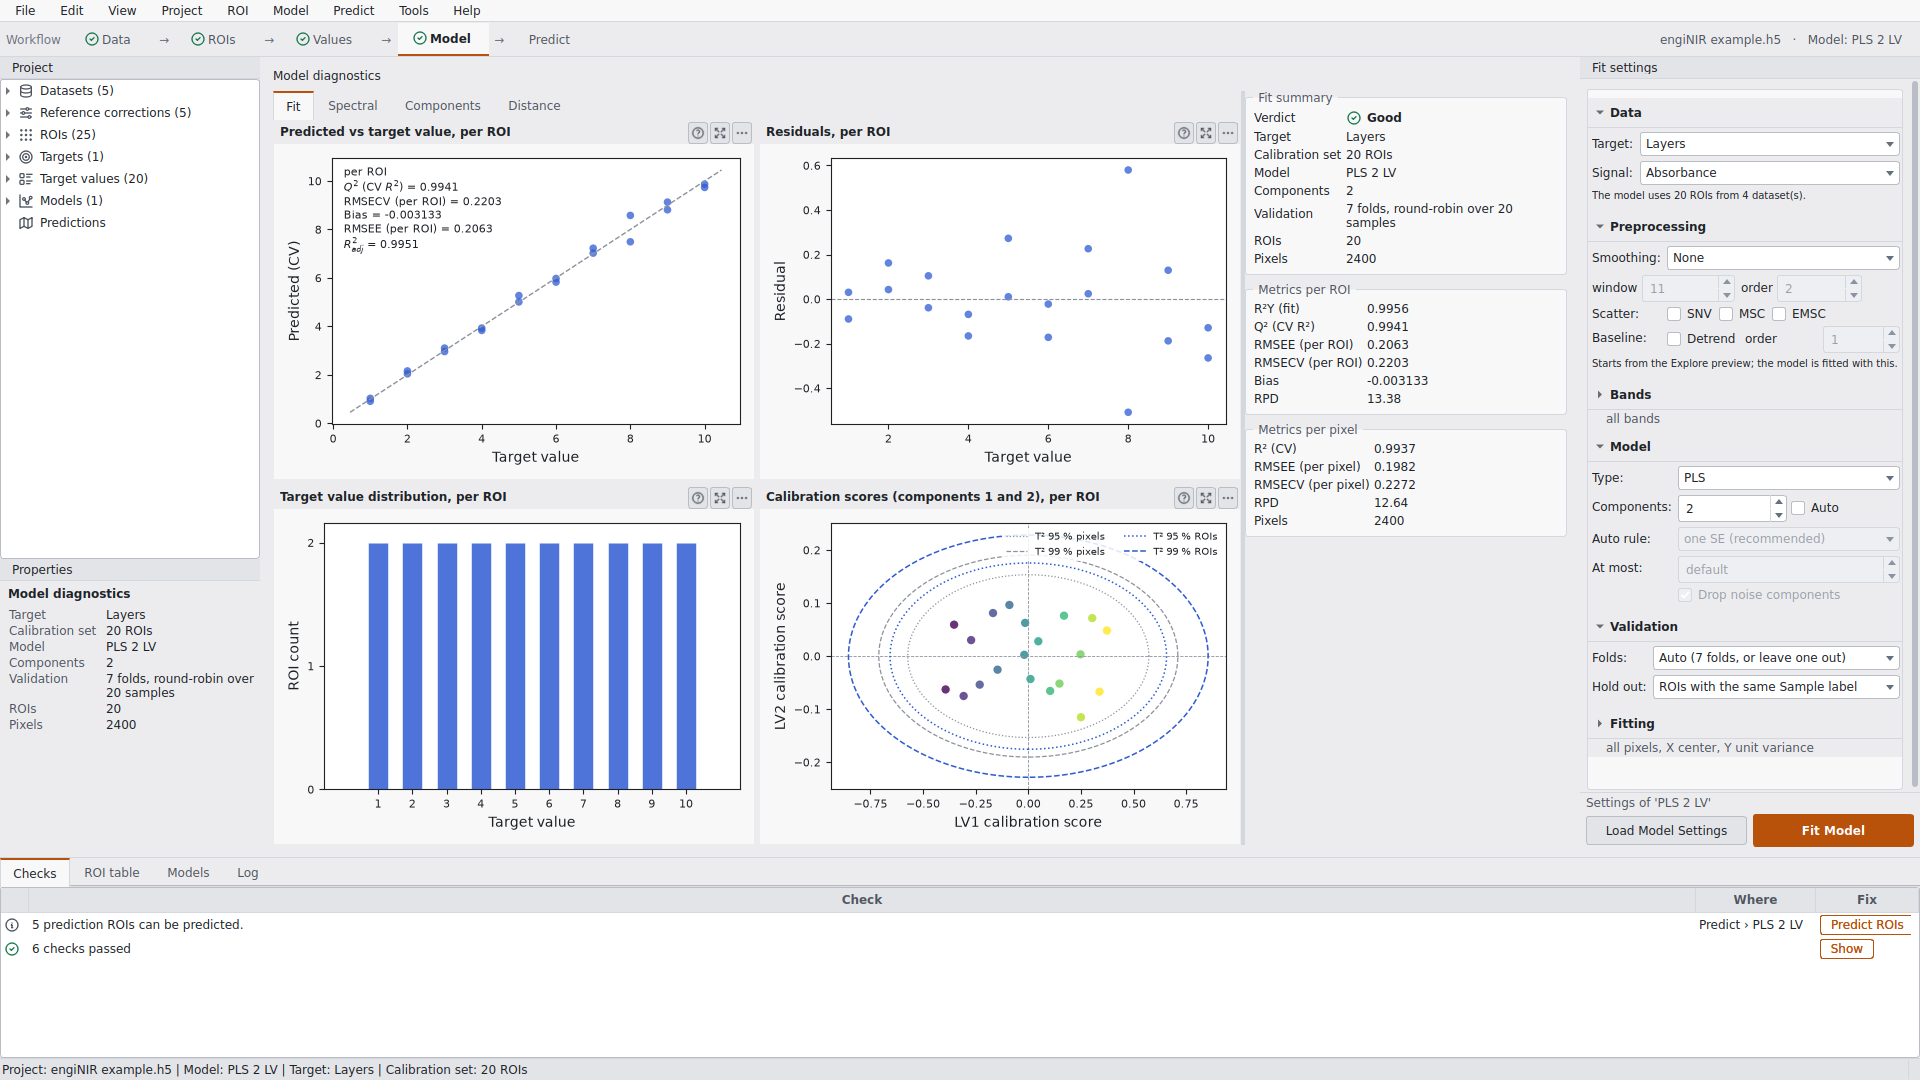
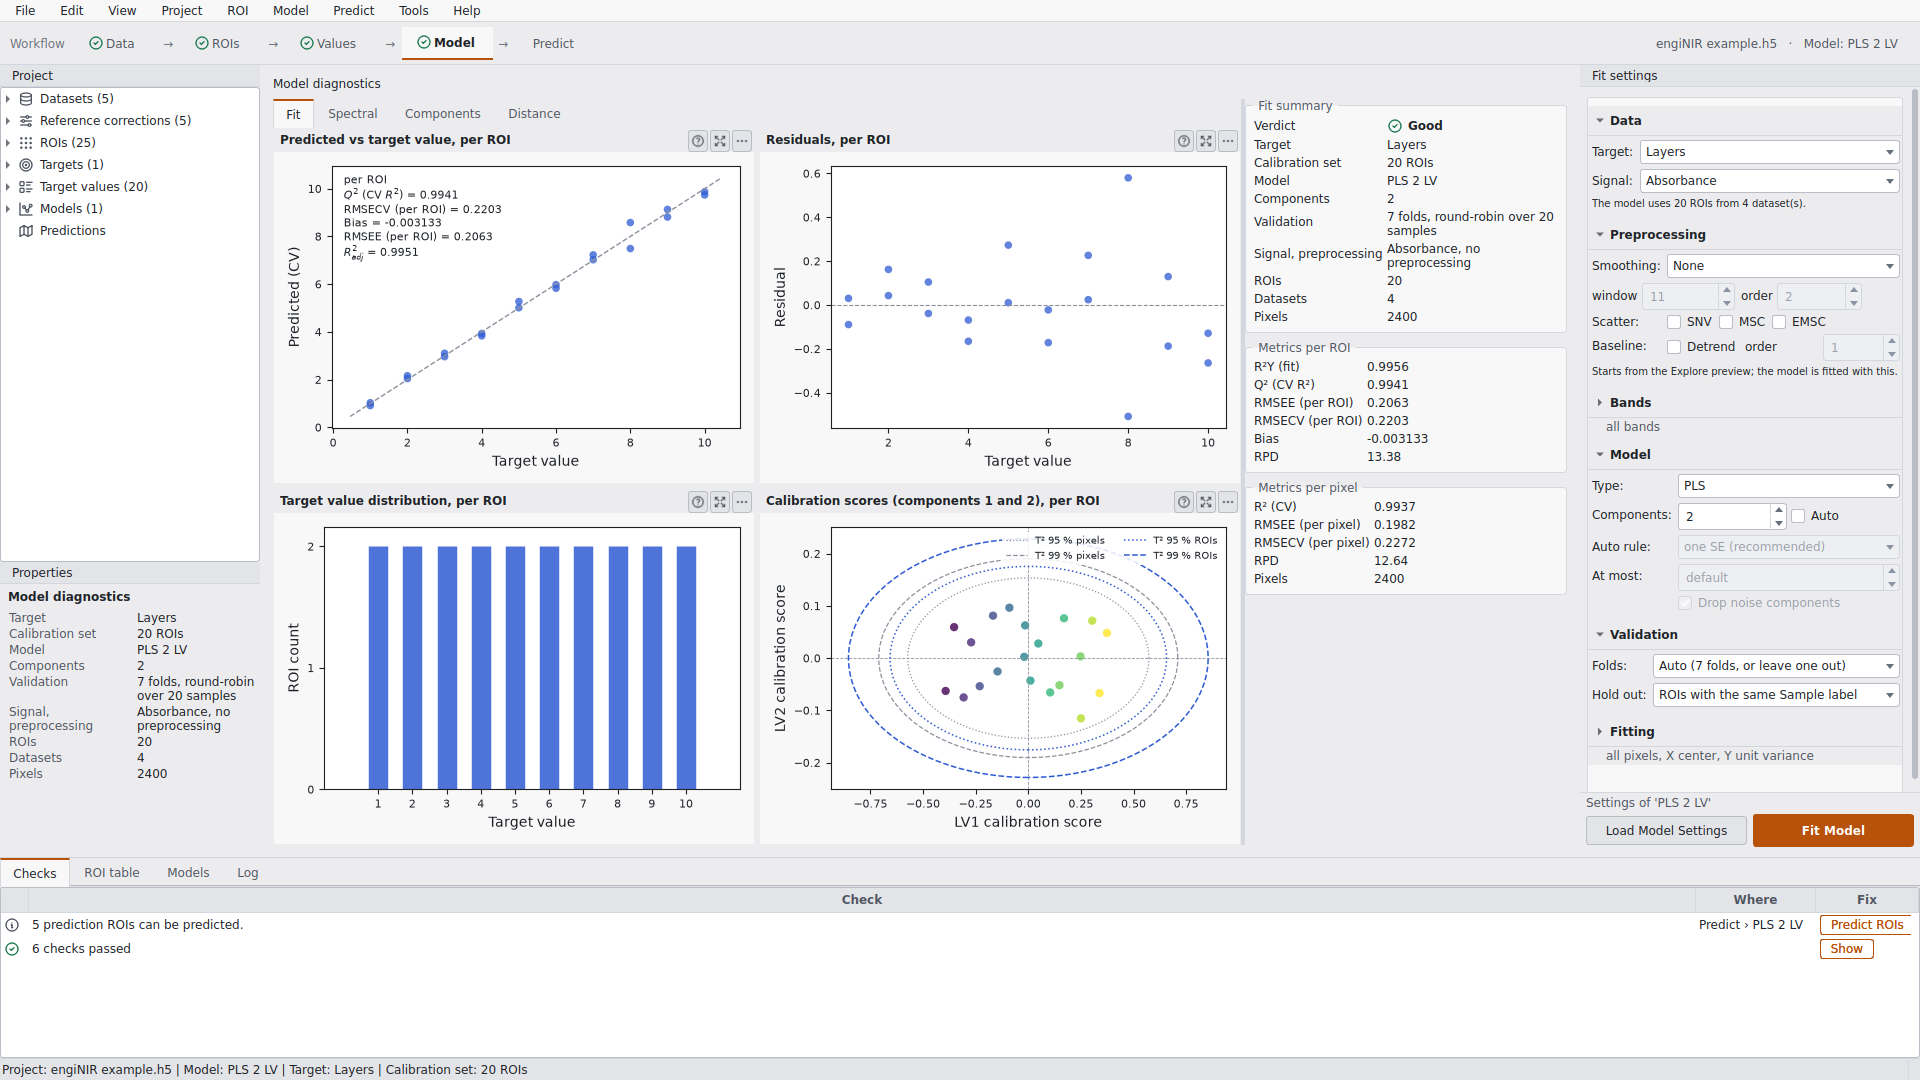
README follows the 1.6 viewer with screenshots of the example project and two guiding principles; Regulatory context page in the docs
- README: workflow strip steps, Try it with the example project, new
  screenshots (Model, Data, Spectral, Predict), installation first for
  viewer users, Development section.
- Guarantees become two guiding principles; the full guarantees, the
  ICH/USP/FDA evidence table and what is not covered move to
  docs/user_guide/regulatory.rst.
- The user guide's Model screenshot shows the new fit summary rows.

diff --git a/README.md b/README.md
@@ -4,6 +4,7 @@
 
 # engiNIR
 
+[![CI](https://github.com/TUstudents/engiNIR/actions/workflows/ci.yml/badge.svg)](https://github.com/TUstudents/engiNIR/actions/workflows/ci.yml)
 [![DOI](https://zenodo.org/badge/DOI/10.5281/zenodo.23235907.svg)](https://doi.org/10.5281/zenodo.23235907)
 [![Documentation](https://app.readthedocs.org/projects/enginir/badge/?version=stable)](https://enginir.readthedocs.io/en/stable/)
 [![PyPI](https://img.shields.io/pypi/v/enginir)](https://pypi.org/project/enginir/)
@@ -12,53 +13,71 @@
 engiNIR turns near-infrared spectra and hyperspectral images into validated
 calibration models and property predictions, with every step recorded. It is
 built for pharmaceutical process analytics: tablets on a tray, scanned by a
-push-broom camera, measured against target values.
+push-broom camera, measured against target values. It comes as a Python
+library and as a desktop viewer that guides you through the whole workflow.
+
+<p align="center">
+  <img src="https://raw.githubusercontent.com/TUstudents/engiNIR/main/docs/_static/screens/readme_model.png" alt="The engiNIR viewer on the Model step: predicted against target values, residuals, scores, the fit summary with its verdict, and the Fit settings">
+</p>
+
+## Try it
+
+Install the viewer (see [Installation](#installation)), start it and choose
+**Open Example Project**. The example is a synthetic tablet study: four
+calibration scans with five tablets each, one scan to predict, and a fitted
+PLS model, so every step of the workflow has something to show.
 
 ## Workflow
 
-1. **Import** EVK EIFF, ENVI, HDF5, CSV/Excel, SPC, SPA and JCAMP-DX data.
-   Several scans form one project; references can come from separate files,
-   frames of the same scan or another scan.
-2. **Correct** raw counts to reflectance or absorbance with dark and white
-   references or detector levels.
-3. **Draw regions** (ROIs) on the samples, one by one or as a grid over a
-   tray, and assign target values.
-4. **Preprocess** with recipes: Savitzky-Golay smoothing and derivatives, SNV,
-   MSC, EMSC, detrending, AsLS baseline correction and band selection.
-5. **Model** with PLS or PCR, cross-validated by ROI so that no sample's
-   pixels are split across folds. The number of components can be chosen
-   automatically (one-SE, Q² and F-test rules with a noise guard).
-6. **Review** figures of merit, scores and loadings, VIP and selectivity
-   ratio, Hotelling's T² and the distance to the model (DModX).
-7. **Predict** new scans: a prediction map with the distance to the model and
-   a 95 % prediction interval per pixel, and per-tablet results for marked
-   prediction ROIs.
+The viewer's workflow strip, **Data → ROIs → Values → Model → Predict**,
+follows the steps of a calibration. A tick marks a finished step, and the
+**Checks** tab says what a step still needs, with a button that fixes it.
 
-## Guarantees
+1. **Data.** Import EVK EIFF, ENVI, HDF5, CSV/Excel, SPC, SPA and JCAMP-DX
+   data. Several scans form one project. Raw counts are corrected to
+   reflectance or absorbance with dark and white references (from separate
+   files, frames of the same scan or another scan) or detector levels.
+2. **ROIs.** Draw regions of interest on the samples, one by one or as a grid
+   over a tray.
+3. **Values.** Define targets with units and enter the reference value of each
+   ROI.
+4. **Model.** Preprocess with Savitzky-Golay smoothing and derivatives, SNV,
+   MSC, EMSC, detrending, AsLS baseline correction and band selection, and fit
+   PLS or PCR, cross-validated by ROI so that no sample's pixels are split
+   across folds. The number of components can be chosen automatically
+   (one-SE, Q² and F-test rules with a noise guard). Review the figures of
+   merit, scores and loadings, VIP and selectivity ratio, Hotelling's T² and
+   the distance to the model (DModX); a verdict sums up whether the model is
+   fit for use.
+5. **Predict.** Apply the model to new scans: a prediction map with the
+   distance to the model and a 95 % prediction interval per pixel, and
+   per-tablet results for marked prediction ROIs.
 
-- Calibration and prediction run through the same reference correction and preprocessing
-  pipeline; fitted MSC/EMSC states are stored with the model.
-- Pixels are the data points of the fit, ROIs the reporting unit: cross-validation, reported
-  metrics and stateful preprocessing respect the ROI.
-- Prediction is refused when a scan does not match the model's instrument
-  format, number of bands, reference correction or signal unit.
-- Every pixel prediction says whether it is inside the model (DModXPS and
-  T²PS against their 0.99 limits) and how precise it is (leverage-based
-  interval); outside the model it gets no interval.
-- One project file links data, references, ROIs, recipes and models by stable
-  ids; stored objects are never silently overwritten. Predictions are kept in
-  memory and logged with their provenance.
+| Data | Model: spectral diagnostics | Predict |
+|:---:|:---:|:---:|
+| <img src="https://raw.githubusercontent.com/TUstudents/engiNIR/main/docs/_static/screens/readme_data.png" alt="The Data step: the spatial image of a scan with its ROIs, the sensor frame, the spatial and spectral profiles" width="300"> | <img src="https://raw.githubusercontent.com/TUstudents/engiNIR/main/docs/_static/screens/readme_spectral.png" alt="The Spectral page of the Model step: regression coefficients, loadings, VIP and selectivity ratio" width="300"> | <img src="https://raw.githubusercontent.com/TUstudents/engiNIR/main/docs/_static/screens/readme_predict.png" alt="The Predict step: a prediction map with pixels outside the model grayed out, the per-ROI predictions and their distribution" width="300"> |
+| A scan with its ROIs, sensor frame and profiles | Coefficients, loadings, VIP, selectivity ratio | Prediction map, per-tablet results |
 
-## Usage
+Every plot exports PNG, SVG and CSV.
 
-engiNIR needs Python 3.12 or newer. Add it to a
-[uv](https://docs.astral.sh/uv/) project:
+## Guiding principles
 
-```bash
-uv add enginir
-```
+**Sound by construction.** Calibration and prediction run through one
+pipeline. Models are validated by sample, not by pixel: ROIs are the unit of
+cross-validation and of every reported metric. A scan that does not match the
+model is refused, and every predicted pixel states whether it lies inside the
+model and how precise it is.
 
-To work on engiNIR itself, clone the repository and run `uv sync --all-extras`.
+**Traceable for regulated work.** One project file links data, references,
+ROIs, recipes and models by stable ids; stored objects are never overwritten,
+and a refit is a new model. engiNIR supplies the evidence that ICH Q2(R2),
+Q12 and Q14, USP <1039> and <1119> and the FDA PAT guidance ask for; see the
+[regulatory context](https://enginir.readthedocs.io/en/latest/user_guide/regulatory.html)
+for what it covers and what it does not.
+
+## Installation
+
+engiNIR needs Python 3.12 or newer.
 
 **The viewer on Windows, without Python knowledge:** paste this line into
 PowerShell, then start *engiNIR Viewer* from the Start menu (details in the
@@ -68,32 +87,31 @@ PowerShell, then start *engiNIR Viewer* from the Start menu (details in the
 powershell -ExecutionPolicy ByPass -c "irm https://github.com/TUstudents/engiNIR/releases/latest/download/install-enginir-for-windows.ps1 | iex"
 ```
 
-### Viewer
+**In a Python project**, with [uv](https://docs.astral.sh/uv/) or pip:
 
-The desktop viewer runs the whole workflow interactively:
+```bash
+uv add enginir
+pip install enginir
+```
 
-- **Explore**: images and spectra of the project's scans, ROIs and ROI grids.
-- **Model**: target values, fitting and refitting, and the diagnostics
-  pages Fit, Spectral (coefficients, loadings, VIP), Components and Distance
-  (DModX and T²).
-- **Predict**: prediction ROIs and maps with diagnostic and uncertainty
-  layers, per-ROI results in the ROI table.
-
-Every plot exports PNG, SVG and CSV.
+Then start the viewer:
 
 ```bash
 uv run enginir-viewer                                  # welcome screen
+uv run enginir-viewer project.h5                       # open a project
 uv run enginir-viewer scan.eiff --dark dark.eiff --white white.eiff
-uv run enginir-viewer project.h5
 ```
 
-### Library
+`enginir-viewer-console` is the same viewer with a console window, for
+messages and `--help`.
+
+## Library
 
 The library can be used in two ways.
 
 **Project mode** records every step in a project file, so each result is
-reproducible and traceable to its data. Recommended unless you know exactly
-which steps you need:
+reproducible and traceable to its data, and the file opens in the viewer.
+Recommended unless you know exactly which steps you need:
 
 ```python
 from enginir import PreprocessingRecipe, Project
@@ -106,6 +124,7 @@ scan.add_roi("tablet 1", frames=(0, 4), rows=(0, 9), values={"API content": 1.0}
 model = project.fit("API content", recipe=PreprocessingRecipe(snv=True),
                     n_components="auto")
 model.metrics["rmsecv"]
+model.verdict()                 # is the model fit for use, and why
 
 prediction = model.predict("new_scan.eiff")
 prediction.map                  # one value per pixel
@@ -120,24 +139,36 @@ validation functions directly on arrays, as scikit-learn estimators:
 
 ```python
 from sklearn.pipeline import make_pipeline
+from enginir.io import load_spectra
 from enginir.models import PLSRegression
 from enginir.preprocessing import SNV
 from enginir.validation import cross_validate
 
+X = load_spectra("spectra.csv").X          # (n_samples, n_bands)
+# y: reference values, samples: one label per spectrum
 model = make_pipeline(SNV(), PLSRegression(n_components=4))
 cv = cross_validate(model, X, y, cv="logo", groups=samples)   # cv["rmsecv"], cv["y_pred"]
 ```
 
-### Documentation
+## Documentation
 
 The documentation is at <https://enginir.readthedocs.io>: a workflow guide,
 the user guide for each step and the viewer, the API reference, and the file
-formats. To build it locally:
+formats. Changes are listed in the [changelog](CHANGELOG.md) and the
+[releases](https://github.com/TUstudents/engiNIR/releases).
+
+## Development
+
+Clone the repository, then:
 
 ```bash
-uv sync --extra docs
-uv run python -m sphinx -b html docs docs/_build/html
+uv sync --all-extras
+uv run pytest
+uv run python -m sphinx -W -E -b html docs docs/_build/html
 ```
+
+Questions and bug reports go to the
+[issue tracker](https://github.com/TUstudents/engiNIR/issues).
 
 ## Citation
 

diff --git a/docs/user_guide/regulatory.rst b/docs/user_guide/regulatory.rst
@@ -1,0 +1,73 @@
+Regulatory context
+==================
+
+engiNIR is built to support NIR methods that are developed and maintained
+under pharmaceutical guidelines. It provides the evidence these guidelines
+ask for: a documented model, its performance, the detection of samples
+outside the calibration, and traceable records. It does not make a method
+compliant on its own; the method, its validation and the system it runs on
+remain the user's responsibility.
+
+What engiNIR guarantees
+-----------------------
+
+- **One pipeline.** Calibration and prediction convert and preprocess spectra
+  with the same code; fitted MSC/EMSC states are stored with the model.
+- **Validated by sample, not by pixel.** Pixels are the data points of the
+  fit; regions of interest (ROIs) are the unit of cross-validation, stateful
+  preprocessing and every reported metric, so no sample is split across
+  folds (:doc:`validation`).
+- **Wrong input is refused.** A scan that does not match the model's
+  instrument format, number of bands, reference correction or signal unit is
+  not predicted.
+- **Every prediction states its applicability.** Each pixel is tested against
+  the model's DModXPS and T²PS limits (0.99) and gets a 95 % prediction
+  interval; outside the model it gets no interval (:doc:`model_plots`).
+- **Records are traceable and never overwritten.** One project file links
+  data, references, ROIs, recipes and models by stable ids, with the engiNIR
+  version and time that wrote them. A refit is a new model; the original is
+  never changed. Raw ROI spectra are stored as recorded
+  (:doc:`../hdf5_format`).
+
+Guidelines and evidence
+-----------------------
+
+.. list-table::
+   :header-rows: 1
+   :widths: 25 25 50
+
+   * - Expectation
+     - Guideline
+     - engiNIR
+   * - Documented model development: preprocessing, variable selection,
+       number of components
+     - ICH Q14 (multivariate procedures), USP <1039>
+     - Recipe, bands, fit settings and algorithm stored with each model;
+       components chosen by a stated rule (one-SE, Q² or F-test)
+       (:doc:`fit_specification`, :doc:`band_selection`)
+   * - Performance characteristics
+     - ICH Q2(R2), USP <1119>, FDA guidance on NIR analytical procedures
+     - RMSEE, RMSECV, bias, R², Q² and RPD per ROI; RMSEP and bias on
+       independent prediction ROIs with reference values
+   * - Detection of samples outside the calibration
+     - USP <1039>, FDA PAT guidance
+     - Hotelling's T² and DModX with limits for the calibration; DModXPS and
+       T²PS for every predicted pixel
+   * - Model lifecycle and change management
+     - ICH Q12, ICH Q14
+     - Immutable models with stable ids; a refit is a new model linked to its
+       calibration set and input contract
+   * - Data integrity
+     - FDA data integrity guidance (ALCOA+)
+     - Raw data as recorded, stable ids, writer version and timestamps, and a
+       log file of the work done (:doc:`logging`)
+
+Not covered
+-----------
+
+- 21 CFR Part 11 controls: user accounts, electronic signatures and a
+  per-user audit trail.
+- Computerized system validation of your installation (for example under
+  GAMP 5).
+- A validation report. Predictions are logged but not stored in the project
+  file.

diff --git a/docs/index.rst b/docs/index.rst
@@ -25,6 +25,8 @@ Where to start:
   :doc:`user_guide/model_plots`: how models are fitted, which bands they use
   and how to read their diagnostics.
 - :doc:`hdf5_format`: what a project file holds.
+- :doc:`user_guide/regulatory`: what engiNIR guarantees, and how it supports
+  ICH, USP and FDA expectations for NIR methods.
 
 There are two ways to use the library.
 
@@ -72,6 +74,7 @@ scikit-learn estimators:
 
    user_guide/installation
    user_guide/workflows
+   user_guide/regulatory
    glossary
 
 .. toctree::
